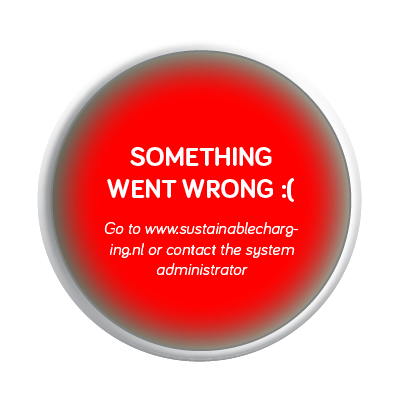
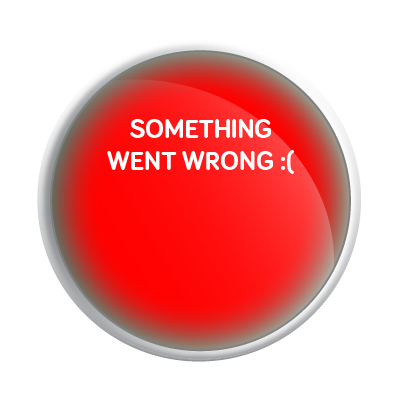
Improved error messages and fixed bug where error message would return to active state when not active

Changed region(s): [[0.27, 0.21, 0.84, 0.75], [0.87, 0.54, 0.9, 0.57]]

diff --git a/Team_Charge_Interface/Mainwindow.py b/Team_Charge_Interface/Mainwindow.py
@@ -14,7 +14,7 @@ class MainWindow():
         self.main = main
         main.title("Welcome to the CHARGE interface!")
         main.geometry('800x480')
-        #window.attributes("-fullscreen", True)
+        #main.attributes("-fullscreen", True)
         main.bind("<Escape>", lambda event: main.attributes("-fullscreen", False))
 
         #Load the images
@@ -92,6 +92,9 @@ class MainWindow():
 
         self.canvas_image_error_message_left = self.mainwindow_canvas.create_image(210,260, image=self.tk_error_message_image, state="hidden")
         self.canvas_image_error_message_right = self.mainwindow_canvas.create_image(597,260, image=self.tk_error_message_image, state="hidden")
+
+        self.canvas_text_error_sub_message_left = self.mainwindow_canvas.create_text(210,280,text="Placeholder", font=("Helvetica",14, "bold"), fill = "white", justify="center", state="hidden")
+        self.canvas_text_error_sub_message_right = self.mainwindow_canvas.create_text(597,280,text="Placeholder", font=("Helvetica",14, "bold"), fill = "white",justify="center" ,state="hidden")
 
         #Global time and date
         self.canvas_text_global_time = self.mainwindow_canvas.create_text(400,70,text="Placeholder", font=("Helvetica",16, "bold"), fill = "white")
@@ -229,8 +232,12 @@ class MainWindow():
                 self.mainwindow_canvas.after(10000, self.hide_message, False, self.spot1)
             elif(self.spot1.message == 3):
                 self.mainwindow_canvas.itemconfig(self.canvas_image_error_message_left, state="normal")
+                self.mainwindow_canvas.itemconfig(self.canvas_text_error_sub_message_left, text=self.spot1.sub_message, state="normal")
                 self.spot1.is_active = False
-                self.mainwindow_canvas.after(10000, self.hide_message, True, self.spot1)
+                if(self.spot1.logged_in):
+                    self.mainwindow_canvas.after(10000, self.hide_message, True, self.spot1)
+                else:
+                    self.mainwindow_canvas.after(10000, self.hide_message, False, self.spot1)
             self.spot1.message = 0
           
         else:
@@ -242,8 +249,12 @@ class MainWindow():
                 self.mainwindow_canvas.after(10000, self.hide_message, False, self.spot2)
             elif(self.spot2.message == 3):
                 self.mainwindow_canvas.itemconfig(self.canvas_image_error_message_right, state="normal")
+                self.mainwindow_canvas.itemconfig(self.canvas_text_error_sub_message_right, text=self.spot2.sub_message, state="normal")
                 self.spot2.is_active = False
-                self.mainwindow_canvas.after(10000, self.hide_message, True, self.spot2)
+                if(self.spot2.logged_in):
+                    self.mainwindow_canvas.after(10000, self.hide_message, True, self.spot2)
+                else:
+                    self.mainwindow_canvas.after(10000, self.hide_message, False, self.spot2)
             self.spot2.message = 0 
             
     def hide_message(self, set_active, spot):
@@ -254,6 +265,8 @@ class MainWindow():
         self.mainwindow_canvas.itemconfig(self.canvas_image_welcome_message_right, state="hidden")
         self.mainwindow_canvas.itemconfig(self.canvas_image_leave_message_right, state="hidden")
         self.mainwindow_canvas.itemconfig(self.canvas_image_error_message_right, state="hidden")
+        self.mainwindow_canvas.itemconfig(self.canvas_text_error_sub_message_left, state="hidden")
+        self.mainwindow_canvas.itemconfig(self.canvas_text_error_sub_message_right, state="hidden")
         
         if set_active:
             spot.is_active = True

diff --git a/Team_Charge_Interface/Charging_spot.py b/Team_Charge_Interface/Charging_spot.py
@@ -3,6 +3,7 @@ import time
 class charging_spot:
     def __init__(self):
         self.is_active = False
+        self.logged_in = False
         self.V1 = 0
         self.V2 = 0
         self.V3 = 0
@@ -18,6 +19,7 @@ class charging_spot:
         self.kwh = 0
         self.last_update_time = 0
         self.message = 0
+        self.sub_message = ""
 
     def update_measurements(self, variables):
         self.V1 = variables["V1"]
@@ -46,6 +48,8 @@ class charging_spot:
                 self.power = self.I2 * self.V2
             elif (self.I3 > 1):
                 self.power = self.I3 * self.V3
+            else:
+                self.power = 0
 
         #set kwh
         self.kwh += (self.power * (0.000277777778 * (int(time.time()) - self.last_update_time)) / 1000)
@@ -57,10 +61,12 @@ class charging_spot:
         self.last_update_time = int(time.time())
         self.kwh = 0
         self.message = 1
+        self.logged_in = True
 
     def stop_charge(self):
         
         self.is_active = False
         self.end_time = int(time.time())
         self.message = 2
+        self.logged_in = False
         

diff --git a/Team_Charge_Interface/MQTT.py b/Team_Charge_Interface/MQTT.py
@@ -51,6 +51,21 @@ class MQTT():
                 elif (self.array[0] == '2'):
                     self.spot2.stop_charge()
 
+            elif (self.array[1] == '3'):
+                if (self.array[0] == '1'):
+                    self.spot1.message = 3
+                    self.spot1.sub_message = "Charger is occupied \nby another user"
+                elif (self.array[0] == '2'):
+                    self.spot2.message = 3   
+                    self.spot2.sub_message = "Charger is occupied \nby another user"
+            
+            elif (self.array[1] == '8'):
+                if (self.array[0] == '1'):
+                    self.spot1.message = 3
+                    self.spot1.sub_message = "You are not in the \nuserlist, go to \nwww.sustainablecharging.nl"
+                elif (self.array[0] == '2'):
+                    self.spot2.message = 3   
+                    self.spot2.sub_message = "You are not in the \nuserlist, go to \nwww.sustainablecharging.nl"
             else:
                 if (self.array[0] == '1'):
                     self.spot1.message = 3
